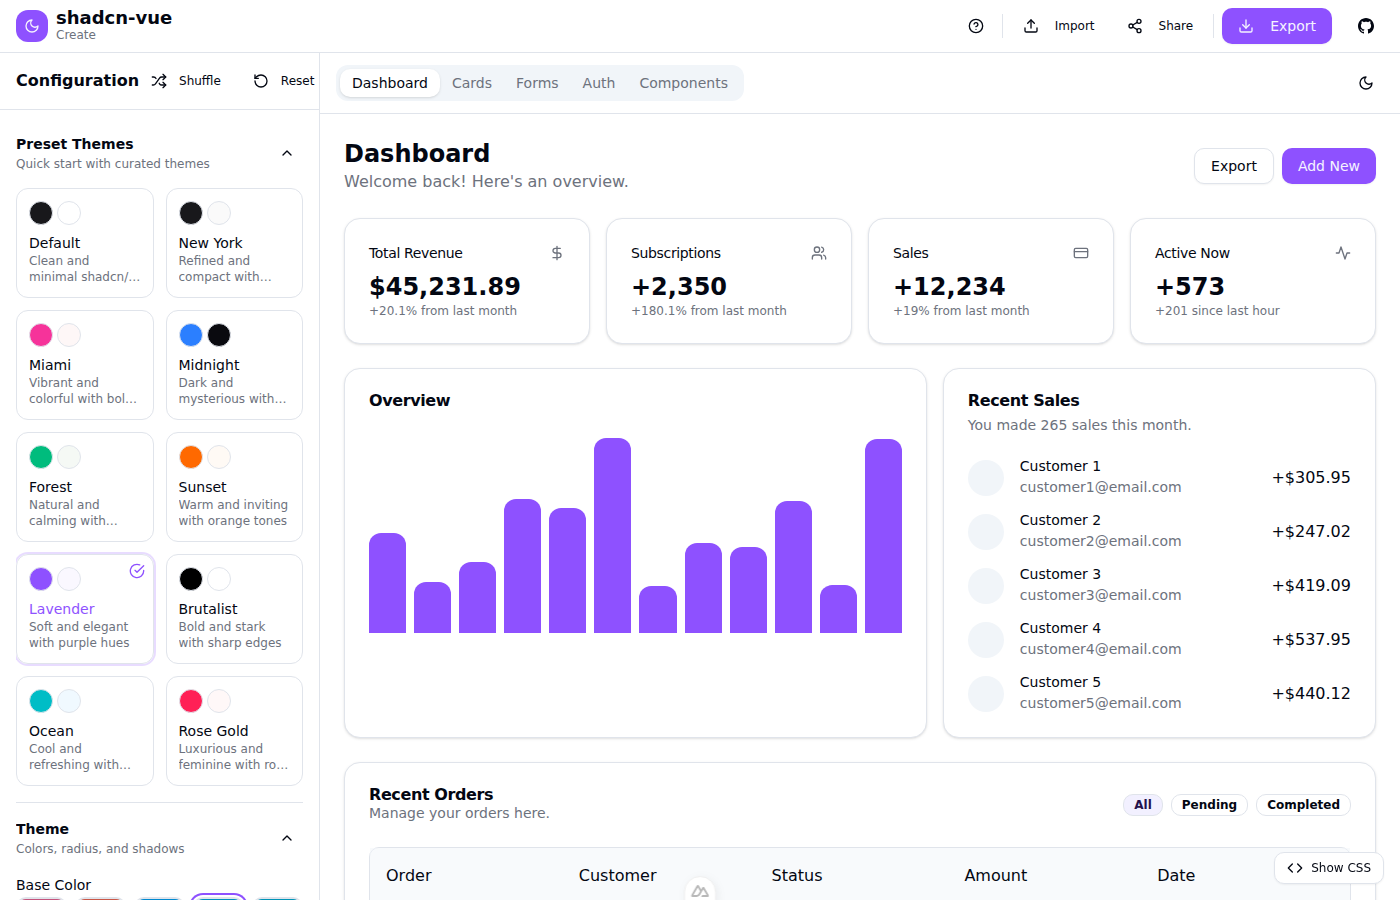
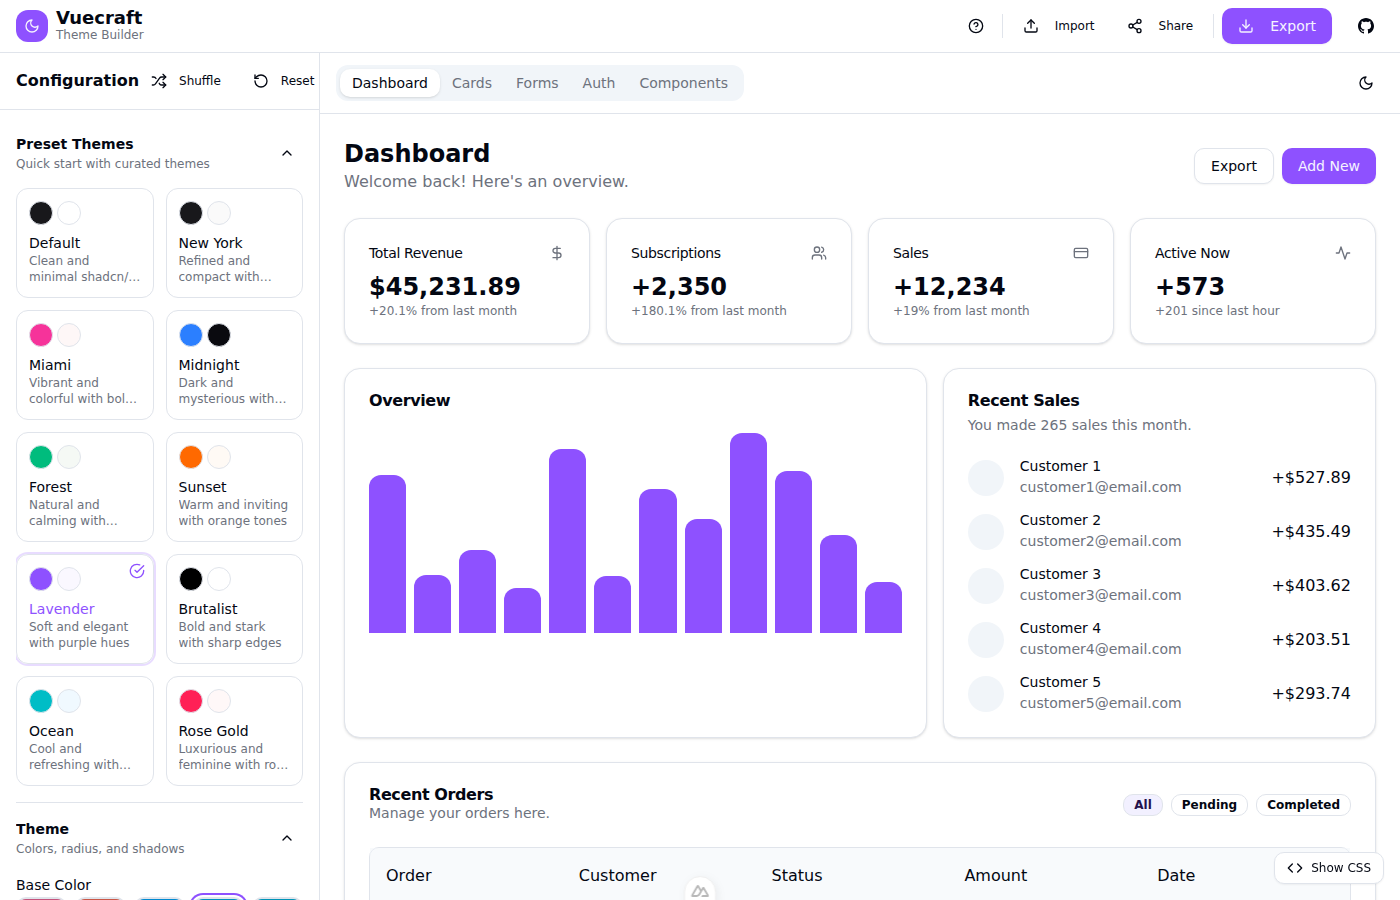
fix: update header to show Vuecraft branding and retake screenshots
- Changed app header from "shadcn-vue Create" to "Vuecraft Theme Builder"
- Updated GitHub link to point to AnoRebel/vuecraft
- Regenerated all 20 theme screenshots with correct branding

diff --git a/components/Toolbar.vue b/components/Toolbar.vue
@@ -41,8 +41,8 @@ function startTour() {
           </svg>
         </div>
         <div>
-          <h1 class="text-lg font-bold leading-none">shadcn-vue</h1>
-          <p class="text-xs text-muted-foreground">Create</p>
+          <h1 class="text-lg font-bold leading-none">Vuecraft</h1>
+          <p class="text-xs text-muted-foreground">Theme Builder</p>
         </div>
       </div>
     </div>
@@ -139,7 +139,7 @@ function startTour() {
       </Button>
 
       <a
-        href="https://github.com/shadcn-vue/create"
+        href="https://github.com/AnoRebel/vuecraft"
         target="_blank"
         rel="noopener noreferrer"
         class="ml-2"
